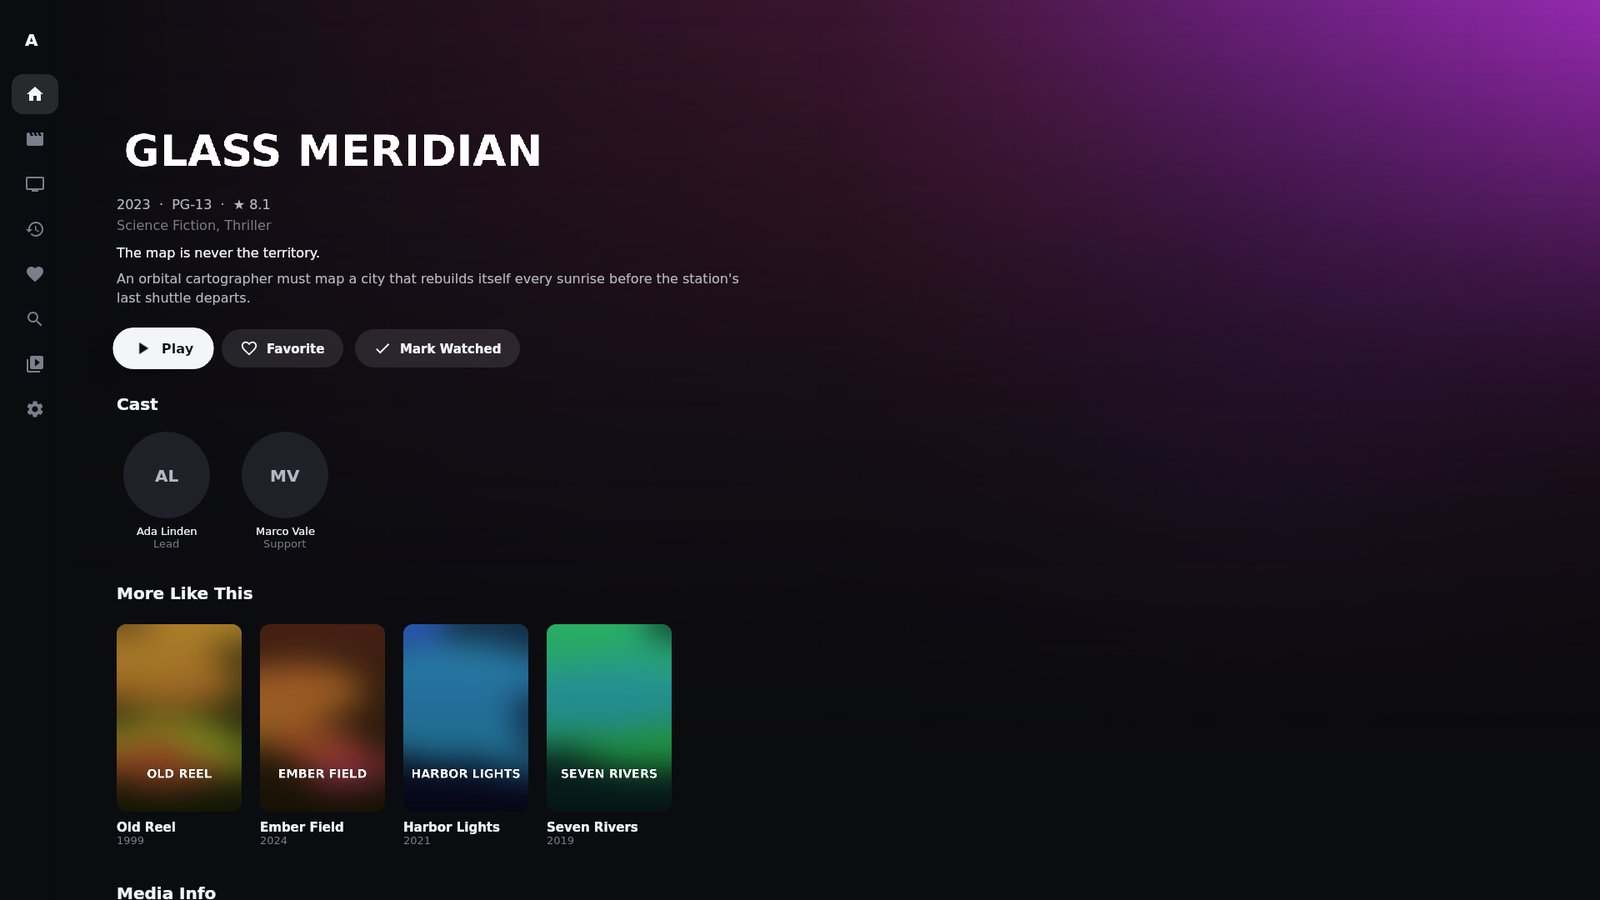
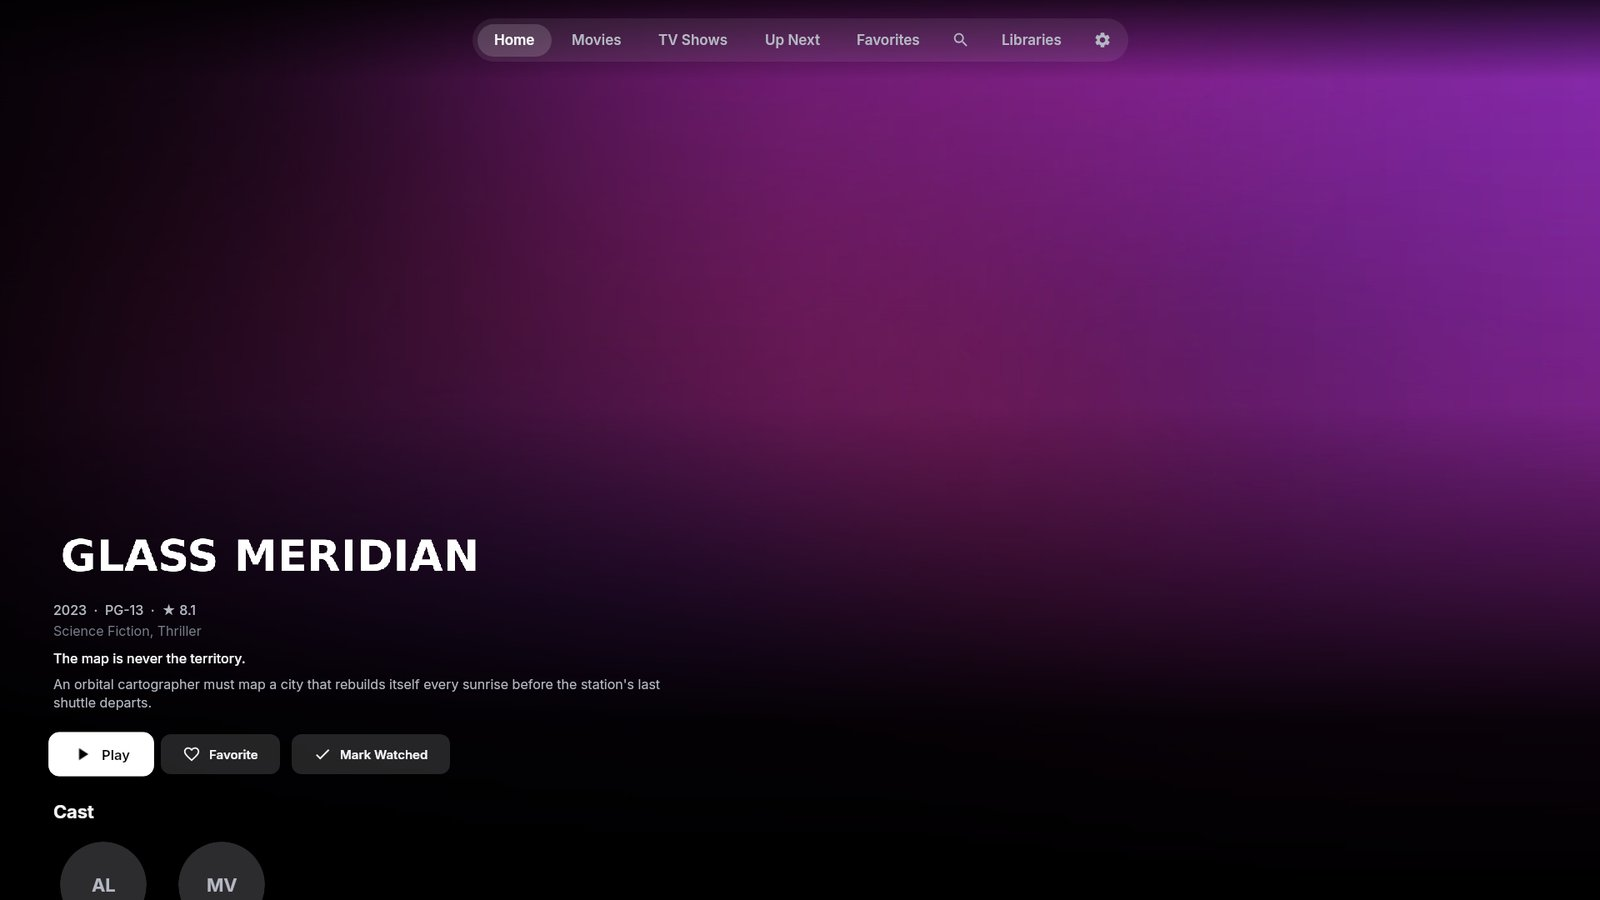
Tab bar visibility fix, docs and screenshots for the tvOS redesign; CI runs once per push
Claude-Session: https://claude.ai/code/session_012yVGuueTZLX3f5Rno8LNU3

diff --git a/shared/src/commonMain/kotlin/com/auroratv/ui/App.kt b/shared/src/commonMain/kotlin/com/auroratv/ui/App.kt
@@ -175,6 +175,8 @@ private fun MainShell(container: AppContainer) {
         onDispose { container.backHandler = { false } }
     }
 
+    // Each new screen starts with the tab bar shown; screens that scroll then report their position.
+    LaunchedEffect(entry) { topBar.contentAtTop = true }
     CompositionLocalProvider(LocalNavigator provides navigator, LocalTopBar provides topBar) {
         Box(
             Modifier.fillMaxSize().onKeyEvent { ev ->
@@ -256,7 +258,6 @@ val TopBarSpace = 96.dp
 fun ReportScrollToTopBar(atTop: () -> Boolean) {
     val bar = LocalTopBar.current
     LaunchedEffect(Unit) { androidx.compose.runtime.snapshotFlow { atTop() }.collect { bar.contentAtTop = it } }
-    DisposableEffect(Unit) { onDispose { bar.contentAtTop = true } }
 }
 
 private fun Section.short(): String = when (this) {

diff --git a/docs/screenshots/README.md b/docs/screenshots/README.md
@@ -7,22 +7,21 @@ library (all artwork, titles and video are generated, nothing third-party).
 
 | | |
 |---|---|
-| ![](android-tv-00-connect.jpg) Connect | ![](android-tv-01-home.jpg) Home: featured carousel + rails |
-| ![](android-tv-02-dpad-rail-focus.jpg) D-pad Down into a rail (focus lift) | ![](android-tv-03-movie-detail.jpg) Select → detail page |
-| ![](android-tv-04-back-focus-restored.jpg) Back → focus restored to the same card | ![](android-tv-05-side-menu.jpg) D-pad Left → side menu expands |
-| ![](android-tv-06-series-detail.jpg) Series detail | ![](android-tv-08-player-controls.jpg) Player controls |
-| ![](android-tv-07-libass-anime-typesetting.jpg) libass: rotated/moving signs, `\clip`+`\t`, karaoke, overlapping lines | ![](android-tv-09-hevc-main10-styled-ass.jpg) Styled ASS (colours, `\pos`, simultaneous lines) |
-| ![](android-tv-10-about-capabilities.jpg) Settings → About: detected capabilities | |
+| ![](android-tv-00-connect.jpg) Connect | ![](android-tv-01-home.jpg) Home: tab bar, full-screen featured title |
+| ![](android-tv-02-dpad-rail-focus.jpg) D-pad Down into a rail (tvOS lift + sheen) | ![](android-tv-03-movie-detail.jpg) Select → detail page |
+| ![](android-tv-04-tab-bar.jpg) Back → focus moves to the tab bar | ![](android-tv-05-series-detail.jpg) Series detail with episodes |
+| ![](android-tv-07-player-yellow-intro-credits.jpg) Player: intro and credits ranges in yellow on the scrubber, Back, Episodes/Chapters/Subtitles/Info | ![](android-tv-06-libass-anime-typesetting.jpg) libass: rotated/moving signs, `\\clip`+`\\t`, karaoke |
+| ![](android-tv-08-hevc-main10-styled-ass.jpg) Styled ASS (colours, `\\pos`, simultaneous lines) | ![](android-tv-09-about-capabilities.jpg) Settings → About: detected capabilities |
 
 ## Desktop (same shared UI; Linux build under Xvfb in CI)
 
 | | |
 |---|---|
 | ![](desktop-01-home-dark.jpg) Home (Dark) | ![](desktop-05-home-light.jpg) Home (Light) |
-| ![](desktop-02-movie-detail.jpg) Movie detail | ![](desktop-03-series-episodes.jpg) Series with episodes |
+| ![](desktop-02-movie-detail.jpg) Movie detail | ![](desktop-03-series.jpg) Series |
 | ![](desktop-06-series-light.jpg) Series (Light) | ![](desktop-04-movies-library.jpg) Library with sort/filter |
 | ![](desktop-07-settings.jpg) Settings | ![](windows-01-first-launch.jpg) Packaged Windows app, first launch on a Windows runner |
 
-Windows playback (mpv video window with the transparent Aurora controls on top) is captured each CI run
-against the public Jellyfin demo server; those images contain third-party film artwork, so they stay
-in the CI results only (`ci-results` branch, `screenshots/windows/`).
+Windows playback (mpv video window with the transparent Aurora controls on top) is captured on every
+CI run against the public Jellyfin demo server. Those images contain third-party film artwork, so they
+stay in the CI results only (`ci-results` branch, `screenshots/windows/`).

diff --git a/README.md b/README.md
@@ -25,9 +25,12 @@ both platforms.
 * Movies, TV Shows and folder libraries with sort (A–Z, added, release, rating, last watched), filters (unwatched, watched, favorites) and paging
 * Detail pages: backdrop, logo, metadata, resume/restart, favorite, watched, seasons and episodes, cast, More Like This, media info
 * Search, Continue Watching, Favorites, Libraries (including collections)
-* Player: big progress bar with chapter ticks, elapsed/remaining time, skip back/forward with hold-to-accelerate, chapters, audio and subtitle pickers, playback info panel (play method, transcode reasons, decoder), Skip Intro/Recap/Credits (from server media segments), Up Next with countdown, resume, progress sync
+* Player (tvOS-style): a scrubber with a time bubble, chapter ticks, and **intro/recap/credits ranges marked in yellow** (from server media segments, or chapter names like "Opening"/"Ending"). An **in-player episode browser** (season picker plus episode cards). Chapters, audio and subtitle sheets, and a playback info panel (play method, transcode reasons, decoder). Skip Intro/Recap/Credits, Up Next with countdown, resume and progress sync. A visible **Back** button; Back/Esc leaves the player in one press, and on Windows clicking the picture pauses and closing the window exits.
+* tvOS-style navigation: top tab bar (Back from content goes to the tab bar), full-screen featured titles you can page with Left/Right, focus lift with a light sheen, rounded buttons, and the Inter typeface (open-source, in the style of San Francisco)
 * Dark, Light and System themes across the entire app, including the player; artwork-derived accent colours
 * Fire TV remote, keyboard, mouse and Xbox-compatible controllers (Windows)
+
+The design follows tvOS's layout and behaviour but uses only original artwork and the open-source Inter font. Apple's SF Pro font may only be used on Apple platforms.
 
 ## Install
 
@@ -121,7 +124,7 @@ About (version, platform, token storage, detected codec/HDR/audio/subtitle capab
 
 GPL-3.0 (see `LICENSE`). Aurora TV bundles the Jellyfin Media3 FFmpeg decoder (GPL-3.0) and a GPL
 build of libmpv, so the whole app is distributed under the GPL. Other components: Kotlin, kotlinx,
-Compose Multiplatform, Ktor, Coil, AndroidX Media3, JNA, the Khronos Vulkan loader (Apache-2.0); ass-media (MIT) with libass
+Compose Multiplatform, Ktor, Coil, AndroidX Media3, JNA, the Khronos Vulkan loader (Apache-2.0); the Inter typeface (SIL OFL 1.1, `LICENSES/Inter-OFL.txt`); ass-media (MIT) with libass
 (ISC), FreeType (FTL), HarfBuzz (MIT) and FriBidi (LGPL-2.1). See *Settings → About*.
 
 Not affiliated with Apple, Amazon or the Jellyfin project. All UI artwork and icons are original.
